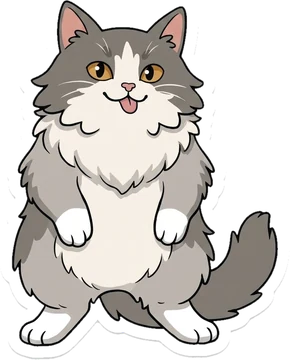
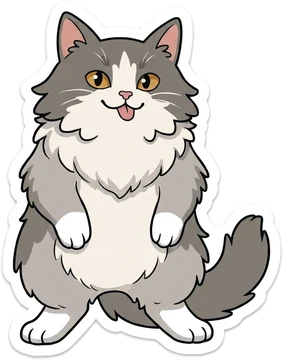
fix: Ciro natural con su borde blanco de sticker
El fondo blanco se quitaba con el umbral de 228 y se llevaba también el borde
blanco del sticker; con umbral=250 queda igual que los demás Ciros.

diff --git a/docs/flujo.html b/docs/flujo.html
@@ -2871,7 +2871,7 @@ line-height: 1.35;
 <a href="metodologia.html">🔧 Metodología</a>
 <span class="nav-actual" aria-current="page">🔄 Flujo</span>
 </nav>
-<div class="generado">🕒 Fecha y hora de generación: 15-11-2026, 20:16 (hora de Chile)</div>
+<div class="generado">🕒 Fecha y hora de generación: 15-11-2026, 20:24 (hora de Chile)</div>
 <div class="volver">
 <a class="volver-principal" href="analisis_escuchas.html">← Reporte general</a>
 <a class="volver-portada" href="index.html" title="Portada" aria-label="Portada">🏠</a>
